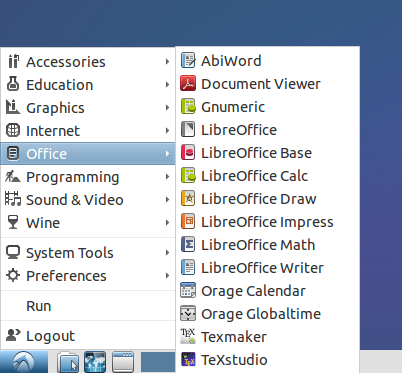
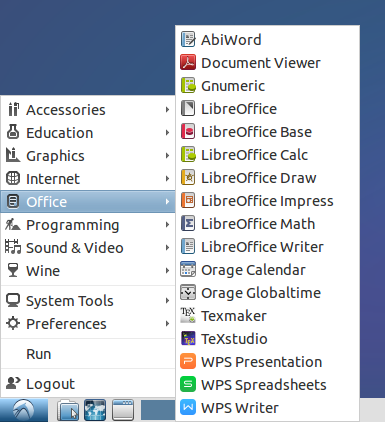
Add Information About WPS Office
We may be adding WPS Office as an alternative Office Suite for users
that need a ribbon and a more Office 2013 feel.  This commit includes
documentation and screenshots for them.

diff --git a/work/office.md b/work/office.md
@@ -26,3 +26,19 @@ The University of Texas at Dallas provides all students with access to Microsoft
 
 ##Google Documents
 Google Documents is another online office solution.  It is accessible with a Google account and a web browser at [drive.google.com](https://drive.google.com) .
+
+##WPS Office
+WPS Office is an office suite that appears very similar to newer versions of Microsoft Office.  Some users may find this more familiar to work with.
+
+**Due to the nature of the source model and license WPS Office uses, this suite is provided as-is, and may be removed from CVOS at any time.  It is encouraged that students take some time to use one of the above options, which we have throuroughly tested and analyzed, and are guaranteed to be supported in the future.**
+
+WPS Office provides three utilities, available via the Application Menu under "Office".
+
+ * WPS Writer: A document editor much like Microsoft Word 2013
+ * WPS Spreadsheets: A spreadsheet tool much like Microsoft Excel 2013
+ * WPS Presentation: A slideshow creater similar to Microsoft Powerpoint 2013
+
+###It is important to be aware of your filetype when saving in WPS Office.  The default file format, `.wps`, cannot be read by Microsoft Word.  Be sure to select Microsoft Word 2007/2010 Document to save as a `.docx`, to preserve compatability with other office suites.
+
+![WPS Office Format](/img/work/WPSOfficeFormat.png)
+
